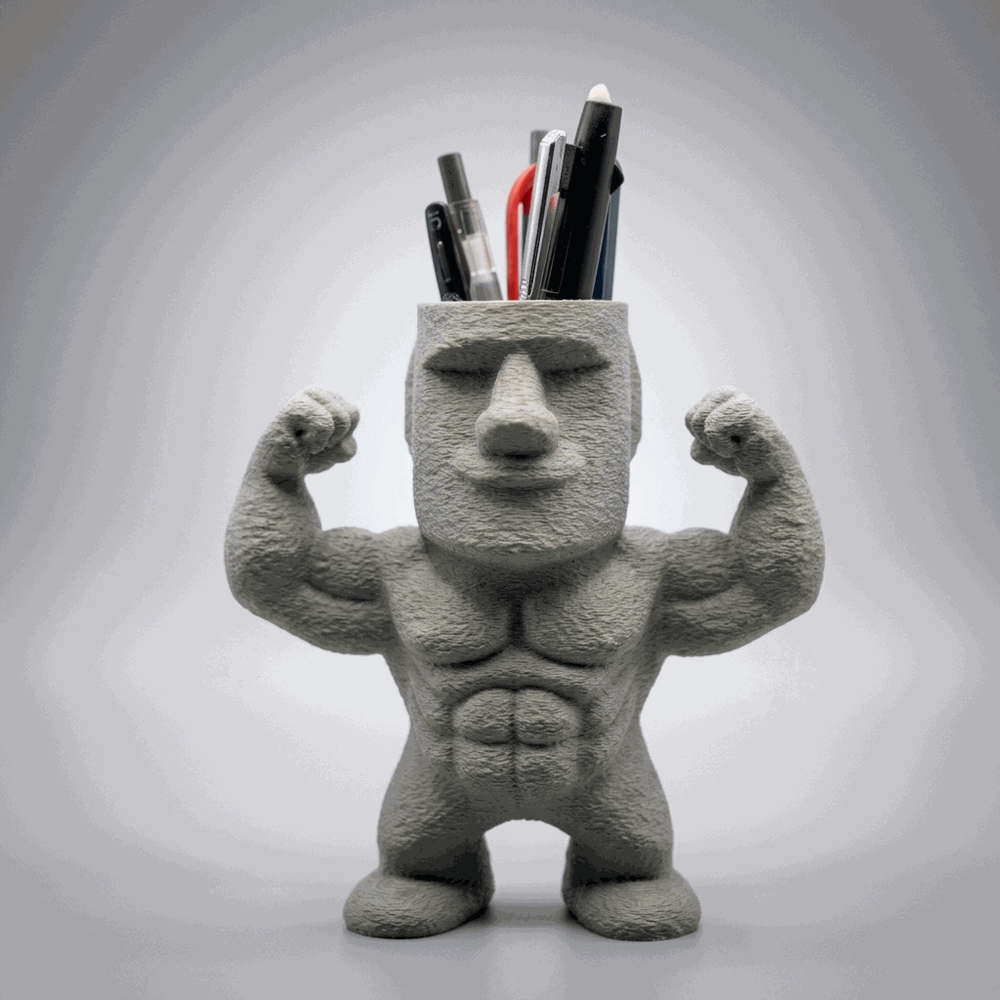
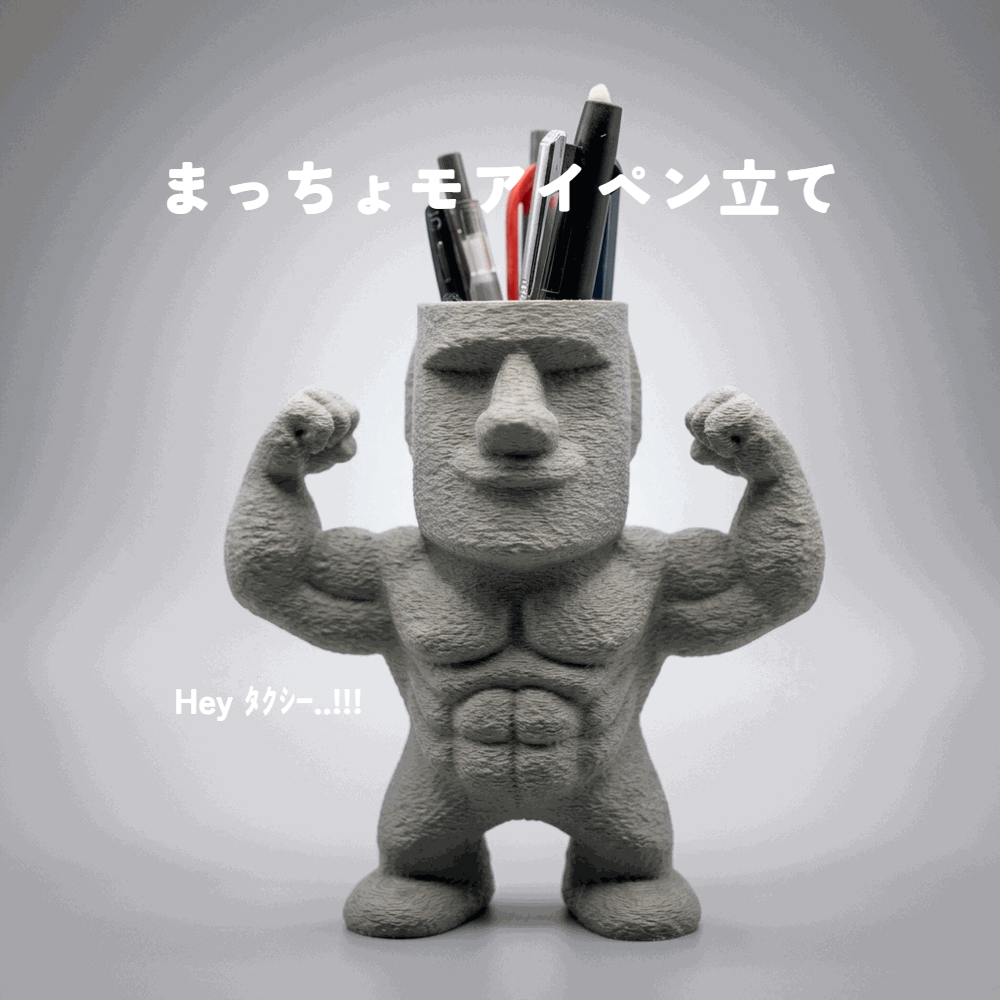
feat: register and publish macho_moai_pen studio master image

Changed region(s): [[0.155, 0.155, 0.837, 0.217], [0.155, 0.682, 0.372, 0.713]]

diff --git a/data.js b/data.js
@@ -292,9 +292,10 @@ const MASTER_PRODUCTS = [
     desc:  '頭にはメガネクロス付き。マッチョなモアイがメガネをがっしりホールド。'
   },
   {
-    image: 'images/kurima/macho_moai_pen.png',
+    id: 'macho_moai_pen',
+    image: 'images/kurima/macho_moai_pen/studio/まっちょモアイペン立て_master.png',
     images: [
-      'images/kurima/macho_moai_pen.png',
+      'images/kurima/macho_moai_pen/studio/まっちょモアイペン立て_master.png',
       'images/kurima/macho_moai_pen/detail_01.png',
       'images/kurima/macho_moai_pen/detail_02.png',
       'images/kurima/macho_moai_pen/detail_03.png',
@@ -618,7 +619,7 @@ window.resolveFallbackImage = function(id) {
   const fallbacks = {
     'moai_highleg': 'images/kurima/moai_highleg/studio/ハイレグモアイ_master.png',
     'moai_loscut': 'images/kurima/moai_loscut/studio/含み損モアイ_master.png',
-    'macho_moai_pen': 'images/kurima/macho_moai_pen.png',
+    'macho_moai_pen': 'images/kurima/macho_moai_pen/studio/まっちょモアイペン立て_master.png',
     'tegotae_moai_pen': 'images/kurima/tegotae_moai_pen.jpg',
     'moai_lure_stand': 'images/kurima/machoi_moai_lure_stand.jpg',
     'mini_osuwari_keychain': 'images/kurima/mini_osuwari_keychain.jpg',
